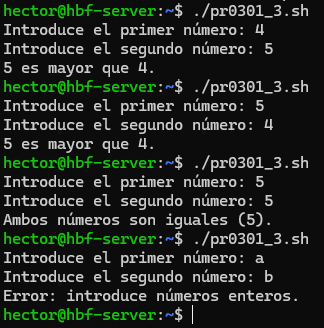
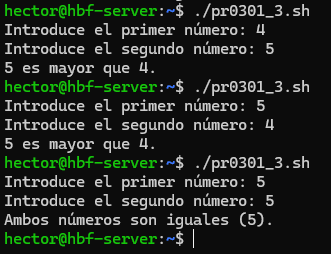
pr0301

diff --git a/ut03/pr0302/pr0302.md b/ut03/pr0302/pr0302.md
@@ -1,100 +1,100 @@
-# 📄 PR0302a: Comando `case`
+# 📄 PR0302: Comando `case`
 
 ## 📌 1. Menú de operaciones matemáticas
 Creamos un script con el nombre **pr0302_1.sh** con `touch "archivo"` y le ponemos los permisos con `sudo chmod +x "archivo"` para ejecutarlo sin problemas. Los demás scripts tendrán la misma estructura del nombre pero con el número del ejercicio para diferenciarlo de los demás y no equivocarnos al editar o ejecutar los demás scripts.
 
-Script:
+- Script:
 ```
 
 ```
 
-Resultado:
+- Resultado:
 
-![]()
+![Script 1](Imagenes/1.png)
 
 ## 📌 2. Identificación de extensión de archivo
 Creamos un script con el nombre **pr0302_2.sh**.
 
-Script:
+- Script:
 ```
 
 ```
 
-Resultado:
+- Resultado:
 
-![]()
+![Script 2](Imagenes/2.png)
 
 ## 📌 3. Conversor de unidades
 Creamos un script con el nombre **pr0302_3.sh**.
 
-Script:
+- Script:
 ```
 
 ```
 
-Resultado:
+- Resultado:
 
-![]()
+![Script 3](Imagenes/3.png)
 
 ## 📌 4. Menú de configuración del sistema
 Creamos un script con el nombre **pr0302_4.sh**.
 
-Script:
+- Script:
 ```
 
 ```
 
-Resultado:
+- Resultado:
 
-![]()
+![Script 4](Imagenes/4.png)
 
 ## 📌 5. Día de la semana
 Creamos un script con el nombre **pr0302_5.sh**.
 
-Script:
+- Script:
 ```
 
 ```
 
-Resultado:
+- Resultado:
 
-![]()
+![Script 5](Imagenes/5.png)
 
 ## 📌 6. Clasificación de notas
 Creamos un script con el nombre **pr0302_6.sh**.
 
-Script:
+- Script:
 ```
 
 ```
 
-Resultado:
+- Resultado:
 
-![]()
+![Script 6](Imagenes/6.png)
 
 ## 📌 7. Clasificación de números
 Creamos un script con el nombre **pr0302_7.sh**.
 
-Script:
+- Script:
 ```
 
 ```
 
-Resultado:
+- Resultado:
 
-![]()
+![Script 7](Imagenes/7.png)
 
 ## 📌 8. Control de servicios en Linux
 Creamos un script con el nombre **pr0302_8.sh**.
 
-Script:
+- Script:
 ```
 
 ```
 
-Resultado:
+- Resultado:
 
-![]()
+![Script 8](Imagenes/8.png)
 
 ---
 ### [⬅ Volver a UT03](../index.md)

diff --git a/ut03/pr0301/pr0301.md b/ut03/pr0301/pr0301.md
@@ -54,11 +54,6 @@ Creamos un script con el nombre **pr0301_3.sh**.
 #!/bin/bash
 read -p "Introduce el primer número: " a
 read -p "Introduce el segundo número: " b
-if ! [[ "$a" =~ ^-?[0-9]+$ ]] || ! [[ "$b" =~ ^-?[0-9]+$ ]]; then
-  echo "Error: introduce números enteros."
-  exit 1
-fi
-
 if [ "$a" -gt "$b" ]; then
   echo "$a es mayor que $b."
 elif [ "$a" -lt "$b" ]; then
@@ -144,11 +139,6 @@ Creamos un script con el nombre **pr0301_7.sh**.
 ```
 #!/bin/bash
 read -p "Introduce la nota (0-10): " nota
-if ! [[ "$nota" =~ ^[0-9]+([.][0-9]+)?$ ]]; then
-  echo "Nota inválida."
-  exit 1
-fi
-
 aprobado=$(echo "$nota >= 5" | bc -l)
 if [ "$aprobado" -eq 1 ]; then
   echo "Aprobado (nota: $nota)."
@@ -220,11 +210,6 @@ Creamos un script con el nombre **pr0301_10.sh**.
 ```
 #!/bin/bash
 read -p "Introduce tu edad: " edad
-if ! [[ "$edad" =~ ^[0-9]+$ ]]; then
-  echo "Edad incorrecta."
-  exit 1
-fi
-
 if [ "$edad" -lt 18 ]; then
   echo "Eres menor de edad."
 elif [ "$edad" -le 65 ]; then
